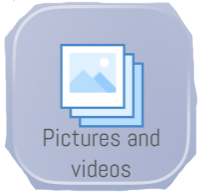
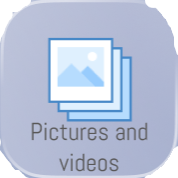
done
edit fam_main ui

Changed region(s): [[0.1685, 0.1966, 0.8427, 0.8146], [0.0, 0.0, 1.0, 1.0], [0.0281, 0.0281, 0.1966, 0.2809]]

diff --git a/vv/lib/widgets/mainfamily.dart b/vv/lib/widgets/mainfamily.dart
@@ -8,10 +8,9 @@ import 'package:vv/Family/patient_reports.dart';
 import 'package:vv/Family/update.dart';
 import 'package:vv/page/assignPatCare.dart';
 import 'package:vv/page/gallery_screen.dart';
-import 'package:vv/page/manage_patient.dart';
 import 'package:vv/page/paitent_Id.dart';
 import 'package:vv/utils/token_manage.dart';
-import 'package:vv/widgets/add/get_code.dart';
+
 
 Widget buildDrawer(BuildContext context) {
   return Drawer(
@@ -153,8 +152,8 @@ class _buildFamilyState extends State<buildFamily> {
           ),
         ),
         Positioned(
-          top: 256,
-          left: 45,
+          top: 259,
+          left: 55,
           child: GestureDetector(
             onTap: () {
               Navigator.pushReplacement(
@@ -165,15 +164,15 @@ class _buildFamilyState extends State<buildFamily> {
             child: Container(
               child: Image.asset(
                 'images/picfam.png',
-                width: 110,
-                height: 110,
+                width: 94,
+                height: 94,
               ),
             ),
           ),
         ),
         Positioned(
-          top: 255,
-          left: 217,
+          top: 263,
+          left: 225,
           child: GestureDetector(
             onTap: () {
               Navigator.pushReplacement(
@@ -184,26 +183,26 @@ class _buildFamilyState extends State<buildFamily> {
             child: Container(
               child: Image.asset(
                 'images/patcode.png',
-                width: 116,
-                height: 116,
+                width: 94,
+                height: 94,
               ),
             ),
           ),
         ),
         Positioned(
-          top: 386,
-          left: 219,
+          top: 392,
+          left: 226,
           child: Container(
             child: Image.asset(
               'images/placefam.png',
-              width: 109,
-              height: 110,
+              width: 94,
+              height: 90,
             ),
           ),
         ),
         Positioned(
-          top: 385,
-          left: 46,
+          top: 524,
+          left: 226,
           child: GestureDetector(
             onTap: () {
               Navigator.pushReplacement(
@@ -214,15 +213,15 @@ class _buildFamilyState extends State<buildFamily> {
             child: Container(
               child: Image.asset(
                 'images/appfam.png',
-                width: 110,
-                height: 110,
+                width: 96,
+                height: 90,
               ),
             ),
           ),
         ),
         Positioned(
-          top: 500,
-          left: 250,
+          top: 389,
+          left: 55,
           child: GestureDetector(
             onTap: () {
               Navigator.pushReplacement(
@@ -232,16 +231,16 @@ class _buildFamilyState extends State<buildFamily> {
             },
             child: Container(
               child: Image.asset(
-                'images/patcode.png',
-                width: 116,
-                height: 116,
+                'images/asspat.png',
+                width: 99,
+                height: 94,
               ),
             ),
           ),
         ),
         Positioned(
-          top: 500,
-          left: 112,
+          top: 525,
+          left: 56,
           child: GestureDetector(
             onTap: () {
               Navigator.pushReplacement(
@@ -252,9 +251,9 @@ class _buildFamilyState extends State<buildFamily> {
             },
             child: Container(
               child: Image.asset(
-                'images/patcode.png',
-                width: 116,
-                height: 116,
+                'images/Rports.png',
+                width: 102,
+                height: 91.5,
               ),
             ),
           ),

diff --git a/vv/lib/home/one.dart b/vv/lib/home/one.dart
@@ -29,6 +29,7 @@ class _OnboardingState extends State<Onboarding> {
 
   @override
   Widget build(BuildContext context) {
+    // ignore: unused_local_variable
     double screenWidth = MediaQuery.of(context).size.width;
 
     return Scaffold(
@@ -37,7 +38,7 @@ class _OnboardingState extends State<Onboarding> {
         child: AppBar(),
       ),
       body: Container(
-        decoration: BoxDecoration(
+        decoration: const BoxDecoration(
           gradient: LinearGradient(
             begin: Alignment.topCenter,
             end: Alignment.bottomCenter,
@@ -60,7 +61,7 @@ class _OnboardingState extends State<Onboarding> {
                         style: GoogleFonts.poppins(
                           fontSize: 33,
                           fontWeight: FontWeight.w600,
-                          color: Color(0xff3B5998), // Change text color to white
+                          color: const Color(0xff3B5998), // Change text color to white
                         ),
                       ),
                     ],
@@ -175,25 +176,25 @@ class _OnboardingState extends State<Onboarding> {
                         style: ButtonStyle(
                           elevation: MaterialStateProperty.all(2),
                           shape: MaterialStateProperty.all(
-                            RoundedRectangleBorder(
+                            const RoundedRectangleBorder(
                               borderRadius: BorderRadius.all(
                                 Radius.circular(20),
                               ),
                             ),
                           ),
-                          backgroundColor: MaterialStateProperty.all(Color(0xffFFFFFF)),
+                          backgroundColor: MaterialStateProperty.all(const Color(0xffFFFFFF)),
                         ),
                         child: Text(
                           'Skip',
                           style: GoogleFonts.roboto(
                             fontSize: 20,
                             fontWeight: FontWeight.w600,
-                            color: Color(0xff3B5998), // Change text color to white
+                            color: const Color(0xff3B5998), // Change text color to white
                           ),
                         ),
                       ),
                     ),
-                    SizedBox(width: 20), // Add space between the buttons
+                    const SizedBox(width: 20), // Add space between the buttons
                     Visibility(
                       visible: (currentIndex != contents.length - 1), // Check if it's not the last page
                       child: SizedBox(
@@ -217,13 +218,13 @@ class _OnboardingState extends State<Onboarding> {
                           style: ButtonStyle(
                             elevation: MaterialStateProperty.all(2),
                             shape: MaterialStateProperty.all(
-                              RoundedRectangleBorder(
+                              const RoundedRectangleBorder(
                                 borderRadius: BorderRadius.all(
                                   Radius.circular(20),
                                 ),
                               ),
                             ),
-                            backgroundColor: MaterialStateProperty.all(Color(0xff3B5998)),
+                            backgroundColor: MaterialStateProperty.all(const Color(0xff3B5998)),
                           ),
                           child: Text(
                             'Next',

diff --git a/vv/lib/Family/Registerfamily/registerfamily.dart b/vv/lib/Family/Registerfamily/registerfamily.dart
@@ -3,6 +3,7 @@ import 'dart:io';
 import 'package:flutter/material.dart';
 import 'package:flutter/services.dart';
 import 'package:dio/dio.dart';
+// ignore: depend_on_referenced_packages
 import 'package:http_parser/http_parser.dart';
 import 'package:vv/Family/LoginPageAll.dart';
 import 'package:vv/Family/Registerfamily/profile/widgets/prof_pic.dart';
@@ -28,6 +29,7 @@ class APIService {
               ? response.data['message']
               : 'Registration failed with status code: ${response.data}';
     } catch (error) {
+      // ignore: avoid_print
       print('Registration failed: $error');
       return 'Registration failed: $error';
     }
@@ -38,6 +40,7 @@ class RegisterFamily extends StatefulWidget {
   const RegisterFamily({Key? key}) : super(key: key);
 
   @override
+  // ignore: library_private_types_in_public_api
   _RegisterFamilyState createState() => _RegisterFamilyState();
 }
 
@@ -53,7 +56,9 @@ class _RegisterFamilyState extends State<RegisterFamily> {
   late String _selectedRole = '';
   late bool _isLoading = false;
   File? _selectedImage;
+  // ignore: non_constant_identifier_names
   late double Lati = 0.0;
+  // ignore: non_constant_identifier_names
   late double Long = 0.0;
 
   void _handleImageSelected(File? image) {
@@ -110,6 +115,7 @@ class _RegisterFamilyState extends State<RegisterFamily> {
 
       if (response == true) {
         showDialog(
+          // ignore: use_build_context_synchronously
           context: context,
           builder: (context) => AlertDialog(
             title: const Text('Registration Successful'),
@@ -135,6 +141,7 @@ class _RegisterFamilyState extends State<RegisterFamily> {
       }
     } catch (error) {
       showDialog(
+        // ignore: use_build_context_synchronously
         context: context,
         builder: (context) => AlertDialog(
           title: const Text('Registration Failed'),

diff --git a/vv/lib/Family/mainpagefamily/mainpagefamily.dart b/vv/lib/Family/mainpagefamily/mainpagefamily.dart
@@ -2,12 +2,15 @@ import 'package:flutter/material.dart';
 import 'package:vv/widgets/background.dart';
 import 'package:vv/widgets/mainfamily.dart';
 
+// ignore: camel_case_types
 class mainpagefamily extends StatelessWidget {
+  const mainpagefamily({super.key});
+
   @override
   Widget build(BuildContext context) {
     return Scaffold(
       appBar: AppBar(
-        backgroundColor: Color.fromARGB(255, 84, 134, 235),
+        backgroundColor: const Color.fromARGB(255, 84, 134, 235),
       ),
       drawer: buildDrawer(context),
       resizeToAvoidBottomInset: false,
